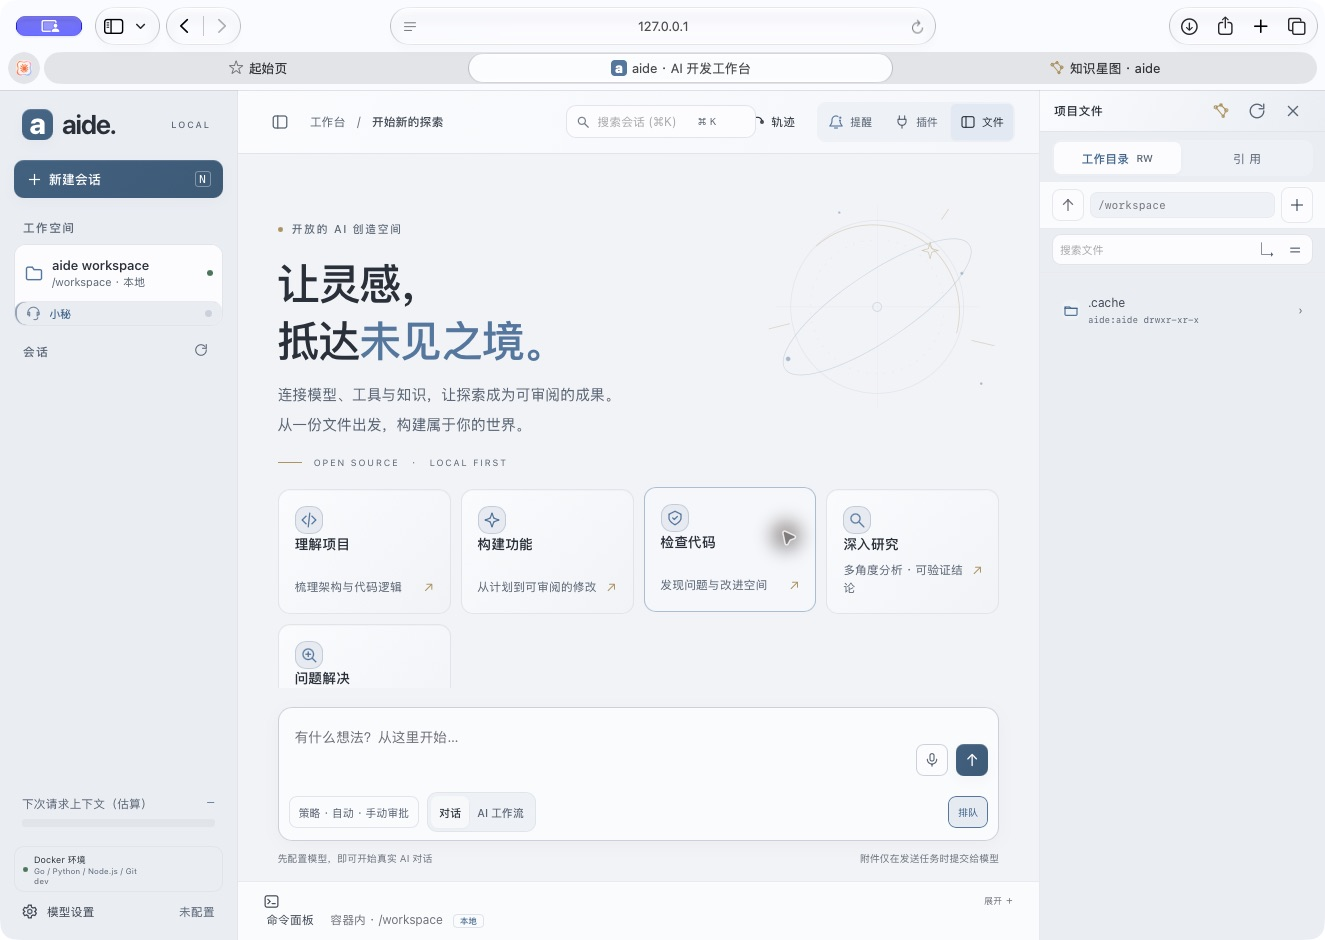
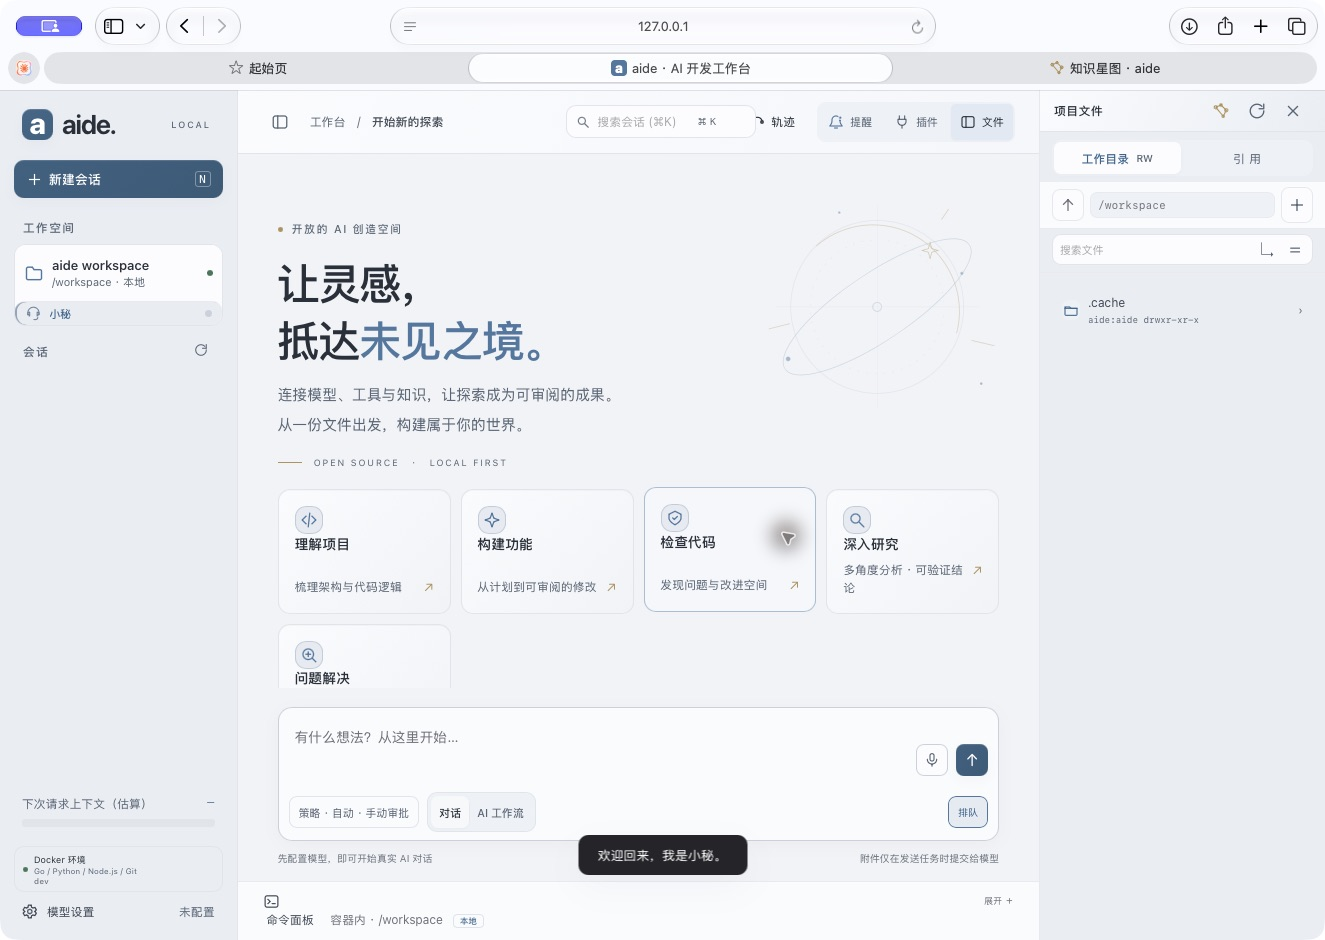
docs: verify combined plugin and lock startup hotfix delivery
[版本 0.1.17.0 RC2]

Changed region(s): [[0.4332, 0.8638, 0.5879, 0.9564]]

diff --git a/docs/reviews/2026-10-16/plugin-online-upgrade.md b/docs/reviews/2026-10-16/plugin-online-upgrade.md
@@ -8,6 +8,6 @@
 
 ![真实联网升级后的隔离工作台](evidence/plugin-online-upgrade-live.png)
 
-[脱敏收据](evidence/plugin-online-upgrade-receipt.json)保存源版本、新版、摘要、数据/备份/新工具校验。测试没有升级用户原插件；原代码、manifest、registry输入摘要一致。隔离HTTP工作台只暴露本机回环，没有用户模型和私密数据；完成即停。真正的9999更新仍通过用户指定start.command，复用原Safari标签，实际运行和最终截图在后续收据补全。
+[脱敏收据](evidence/plugin-online-upgrade-receipt.json)保存源版本、新版、摘要、数据/备份/新工具校验。测试没有升级用户原插件；原代码、manifest、registry输入摘要一致。隔离HTTP工作台只暴露本机回环，没有用户模型和私密数据；完成即停。真正的9999已通过用户指定start.command更新，复用原Safari标签完成最终卡片布局及升级来源对话框观测，未触发用户原插件升级；实际来源对话框截图见 evidence/plugin-upgrade-main-source.png。最终交付合并锁屏／Windows热修复，运行镜像、离线包与验收结果见[联合发布收据](evidence/lock-windows-hotfix-receipt.json)。
 
 保留旧DC镜像和完整离线包。源码模式下插件目录属于启动工程，主动升级会更新该目录中文件；本轮验收避免因此污染用户插件源码。插件持久数据通过复制原树并覆盖新版文件保留，设置/启用状态单独继承；不会自动npm/pip安装依赖。私网/认证更新服务器、所有第三方插件、接收设备、原生Windows/amd64未验证，插件apply与外部系统副作用也不是文件事务的撤回范围。当前无应用内手动回退按钮，备份可在停服务后人工恢复。

diff --git a/docs/reviews/2026-10-16/lock-windows-hotfix.md b/docs/reviews/2026-10-16/lock-windows-hotfix.md
@@ -20,4 +20,8 @@ Safari 隔离完整工作台（临时数据、密码 123456）实际验证：错
 
 ## 发布状态
 
-本次继承 b7c4eb23 的在线插件升级功能，保留旧插件、注册表和数据的恢复机制。最终 main、运行镜像与离线包身份待发布检查完成后填写。保留上一个镜像及离线包，不删除用户配置和会话。
[1 lines of base64/hex data omitted]
+
[1 lines of base64/hex data omitted]
+
+全量检查首轮发现额外从页遮罩问题后主动停止，修复完成并重启全量门禁；仅最终门禁可作为发布依据。[脱敏收据](evidence/lock-windows-hotfix-receipt.json)记录最终结果。保留原镜像和离线包；需要回滚可用先前 `aide:offline-5c5876dd6049`，保持现有数据挂载，禁止删卷。无版本升档、tag或GitHub Release，交付为main、本机运行与离线包。
